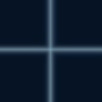
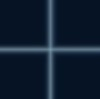
floor

Changed region(s): [[0.0, 0.4242, 1.0, 1.0], [0.51, 0.3636, 0.54, 0.4242], [0.51, 0.303, 0.54, 0.3333]]

diff --git a/behaviors/default/lights.js b/behaviors/default/lights.js
@@ -101,7 +101,7 @@ class LightPawn extends PawnBehavior {
         if (!options.dataLocation) {return;}
         return this.getBuffer(options.dataLocation).then((buffer) => {
             return assetManager.load(buffer, dataType, Microverse.THREE, options).then((texture) => {
-              /*  let TRM = this.service("ThreeRenderManager");
+               let TRM = this.service("ThreeRenderManager");
                 let renderer = TRM.renderer;
                 let scene = TRM.scene;
                 let pmremGenerator = new Microverse.THREE.PMREMGenerator(renderer);
@@ -116,7 +116,7 @@ class LightPawn extends PawnBehavior {
                 // we don't set the color space for exrBackground as PMREM generator
                 // spits out purposefully
                 // srgb-linear color space and we don't necessarily override it.
-                // exrBackground.colorSpace = THREE.SRGBColorSpace;
+                exrBackground.colorSpace = THREE.SRGBColorSpace;
 
                 let bg = scene.background;
                 let e = scene.environment;
@@ -124,7 +124,7 @@ class LightPawn extends PawnBehavior {
                 scene.environment = exrBackground;
                 if(e !== bg) if(bg) bg.dispose();
                 if(e) e.dispose();
-                texture.dispose();*/
+                texture.dispose();
             }).then(() => {
                 if (this.actor._cardData.loadSynchronously) {
                     this.publish(

diff --git a/behaviors/default/ground.js b/behaviors/default/ground.js
@@ -37,7 +37,7 @@ class GroundPawn extends PawnBehavior  {
                     const line = new THREE.LineSegments( wireframe );
                     line.material = new THREE.LineBasicMaterial({color:0xa0a0ff, linewidth: 5 });
                     line.material.depthTest = false;
-                    line.material.opacity = 0.1;
+                    line.material.opacity = 0.2;
                     line.material.transparent = true;
                     line.applyMatrix4(obj.matrix);
                     obj.parent.add(line);
